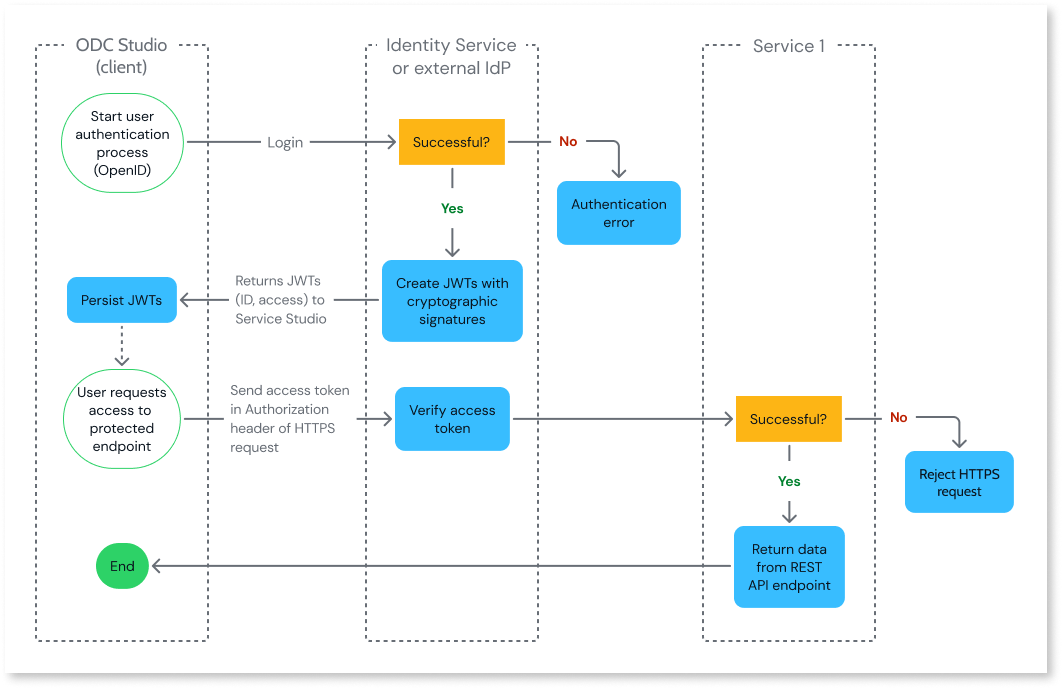
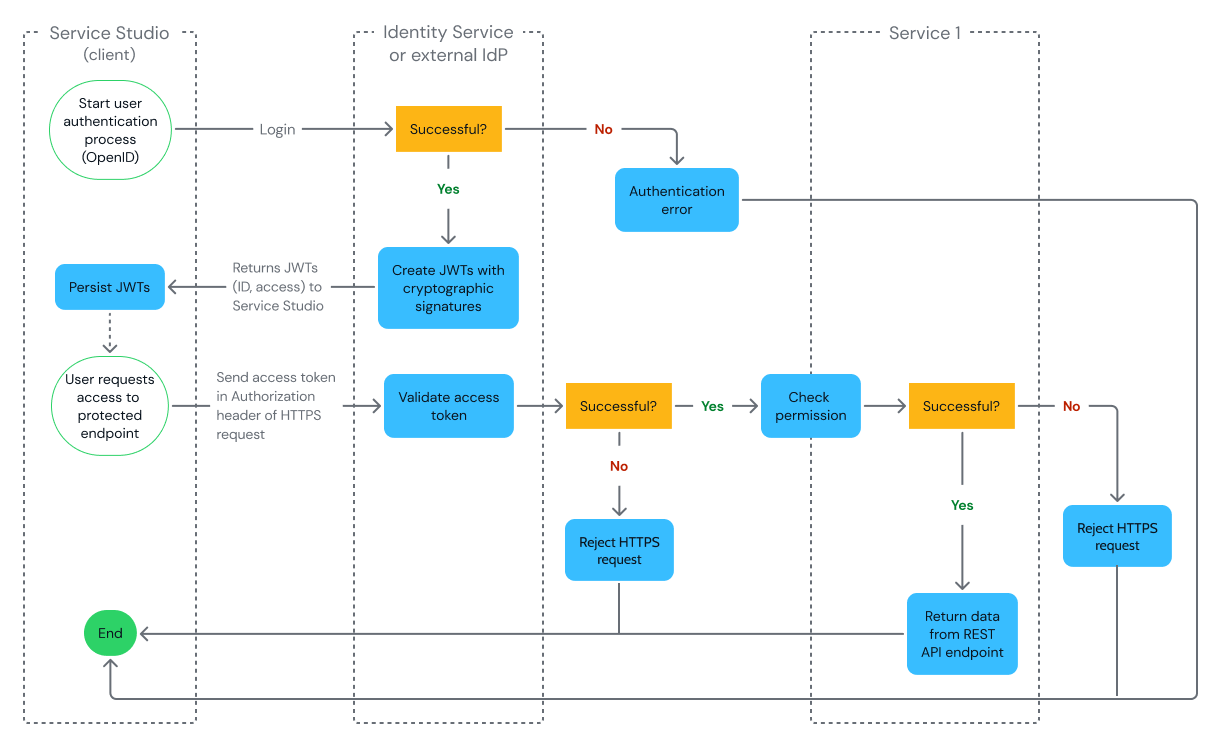
Improve identity architecture diagram

diff --git a/src/eap/architecture/identity.md b/src/eap/architecture/identity.md
@@ -8,7 +8,7 @@ app_type: mobile apps, reactive web apps
 
 # Architecture of authentication and authorization mechanism
 
-This article provides an overview of architecture of the Identity Service of OutSystems Developer Cloud (ODC).
+This article provides an overview of the architecture of the Identity Service of OutSystems Developer Cloud (ODC).
 
 The Identity Service is the built-in identity provider (IdP) of the Platform and the Runtime. It verifies each HTTPS request comes from an authenticated and authorized user for the Platform services and your apps.
 
@@ -20,7 +20,7 @@ In addition, you can use an external, self-managed OpenID Connect (OIDC) IdP as 
 
 Your organization's developers, DevOps engineers and architects are granted **organization permissions** to use ODC Studio and ODC Portal to access the Platform services.
 
-Users of your apps are given **app roles** to access secured screens, data and logic flows. Developers create app roles in ODC Studio and assign them to users in ODC Portal. 
+Users of your apps are granted **app permissions** to access secured screens, data and logic flows. Developers create app roles in ODC Studio and assign them to users in ODC Portal. 
 
 Go to [User management](../user-management/intro.md) for more information on user permissions and roles.
 
@@ -35,7 +35,7 @@ Apps run in containers in the Runtime and expose secure REST API endpoints. For 
 The Identity Service is built on JSON Web Token (JWT) technology, an open standard the Identity Service uses to define identity information as a JSON object. The key benefits of this technology include: 
 
 * JWTs are cryptographically signed using a public/private key pair which safeguards them from being modified by an attacker and ensures their authenticity.
-* JWTs are self-contained, meaning they're quick to verify as they don't require a server database lookup. This means quick access to the Platform services and apps.
+* JWTs are self-contained, meaning they're quick to validate as they don't require a server database lookup. This means quick access to the Platform services and apps.
 
 The Identity Service follows the OIDC standard, an identity layer built on top of the OAuth 2 protocol.
 
@@ -45,7 +45,7 @@ The following diagram shows an example of a user authentication and authorizatio
 
 ![Identity flow](images/identity-flow-authorization-diag.png)
 
-The Identity Service or external IdP checks the following conditions to **verify access token**:
+The Identity Service or external IdP checks the following conditions to **validate access token**:
 
 1. User information is valid.
 1. Client information is valid.
@@ -53,10 +53,11 @@ The Identity Service or external IdP checks the following conditions to **verify
 1. Current time is after the token's valid from time.
 1. Issue time of the token is in the past.
 1. Cryptographic signature is valid.
-1. User has correct permission.
 
-If any of the conditions (1)-(6) fail, the Identity Service or external IdP **rejects the HTTPS request** and revokes the ID and access tokens. Users must authenticate again by logging in to the client. If condition (7) fails, the Identity Service **rejects the HTTPS request** and returns an authorization error.
+If any of the conditions (1)-(6) fail, the Identity Service or external IdP rejects the HTTPS request and revokes the ID and access tokens. Users must authenticate again by logging in to the client.
 
-The **ID** token contains information about the identity of the authenticated user, such as name and email. The **access** token contains information about the user's permissions. Transfer of JWTs between the client and Identity Service or external IdP is over the OAuth 2 protocol.
+If the token validation is successful, the edge of the service checks the user's permission. If the permission check fails, the service rejects the HTTPS request and returns an error to the client.
+
+The **ID** token contains information about the identity of the authenticated user, such as name and email. The **access** token contains information about the user's permissions. Transfer of JWTs between the client and service is over the OAuth 2 protocol.
 
 In the diagram, a user working in ODC Portal to access a REST API endpoint in a second Platform service is a valid example. Another valid example is a user working in a browser to access a REST API endpoint on a protected screen in an app.
